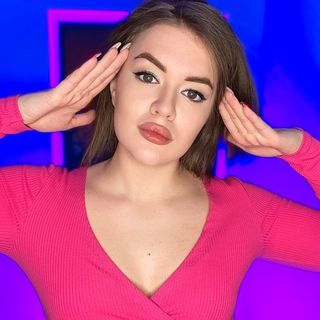
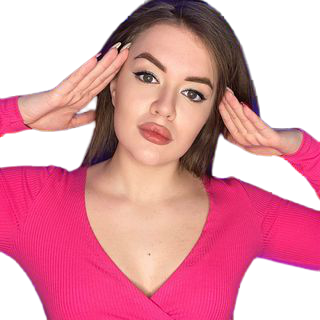
23.02

diff --git a/css/style.css b/css/style.css
@@ -1,1 +1,1 @@
-html{font-size:15px}body{margin:0;font-family:'Montserrat',sans-serif;font-size:1rem;color:#2B2A2C}*,*:before,*:after{box-sizing:border-box}h1,h2,h3,h4,h5,h6{margin:0}.container{width:100%;max-width:1200px;margin:0 auto;padding-left:1rem;padding-right:1rem}.header{padding:1.2rem 0}.header_inner{display:flex;justify-content:space-between;align-items:center}.user{display:flex}.user__avatar img{border-radius:50%;width:57px;height:57px}.user__content{padding-left:9px}.user__name{font-size:1.07rem;color:#2B2A2C;font-weight:700;line-height:1.2rem;margin-bottom:3px}.user__prof{font-size:.8rem;color:rgba(43,42,44,0.7)}.nav{display:flex;align-items:center;height:100%}.nav__link{margin-left:2rem;font-size:.93rem;color:#2B2A2C;text-decoration:none;font-weight:700;text-transform:uppercase;position:relative}.nav__link:after{content:"";width:0;height:2px;background-color:#2B2A2C;position:absolute;bottom:-5px;left:0;transition:width .2s linear}.nav__link:hover:not(.nav__link--btn):after{width:100%}.nav__link--btn{padding:.66rem 2rem;border:2px solid #2B2A2C;border-radius:20px;transition:background-color .2s linear,color .2s linear}.nav__link--btn:hover{background-color:#2B2A2C;color:#fff}.intro__inner{display:flex;border-bottom:1px solid rgba(106,105,107,0.3);padding-bottom:120px;padding-top:100px;position:relative}.intro__content{width:50%}.intro__subtitle{font-size:2.13rem;color:#2B2A2C;font-weight:200}.intro__title{font-size:3rem;color:#2B2A2C;font-weight:700;margin-bottom:5px}.intro__text{font-size:1.2rem;color:rgba(43,42,44,0.7);margin-bottom:35px}.intro__photo{height:100%;position:absolute;bottom:0;right:0}.social{margin-bottom:42px;display:flex}.social__link{margin-right:15px;text-decoration:none;transition:transform .2s linear}.social__link img{height:50px;width:50px}.social__link:hover{transform:translateY(-10px)}.btn{display:inline-block;vertical-align:top;font-size:1.06rem;color:#2B2A2C;text-transform:uppercase;text-decoration:none;border:solid #6A696B 1px;border-radius:30px;padding:1.1rem 1.8rem;min-width:170px;text-align:center;transition:background-color .2s linear,color .2s linear,box-shadow .2s linear}.btn:hover{background-color:#2B2A2C;color:#fff;box-shadow:2px 2px 10px rgba(0,0,0,0.24)}.btn+.btn{margin-left:1rem}.works{padding:2.8rem 0}.works__nav{display:flex;justify-content:center;margin-bottom:1.4rem}.works__nav-link{margin:0 1.2rem;font-size:.8rem;color:rgba(43,42,44,0.7);text-decoration:none}.works__nav-link:hover{text-decoration:underline}.portfolio{display:flex;flex-wrap:wrap;margin:0 -1rem}.portfolio__col{width:33.33%;padding:1rem}.work{box-shadow:0 0 4px rgba(0,0,0,0.25);border-radius:10px;overflow:hidden}.work__img{display:block;width:100%}.work__content{padding:1rem .8rem}.work__cat{margin-bottom:.5rem;font-size:.8rem;color:#2B2A2C;text-transform:uppercase}.work__title{display:flex;justify-content:space-between;font-size:1.06rem;color:#2B2A2C;font-weight:700;text-transform:uppercase}
+html{font-size:15px}body{margin:0;font-family:'Montserrat',sans-serif;font-size:1rem;color:#2B2A2C}*,*:before,*:after{box-sizing:border-box}h1,h2,h3,h4,h5,h6{margin:0}.container{width:100%;max-width:1200px;margin:0 auto;padding-left:1rem;padding-right:1rem}.header{padding:1.2rem 0}.header_inner{display:flex;justify-content:space-between;align-items:center}.user{display:flex}.user__avatar img{border-radius:50%;width:57px;height:57px}.user__content{padding-left:9px}.user__name{font-size:1.07rem;color:#2B2A2C;font-weight:700;line-height:1.2rem;margin-bottom:3px}.user__prof{font-size:.8rem;color:rgba(43,42,44,0.7)}.nav{display:flex;align-items:center;height:100%}.nav__link{margin-left:2rem;font-size:.93rem;color:#2B2A2C;text-decoration:none;font-weight:700;text-transform:uppercase;position:relative;z-index:1}.nav__link:after{content:"";width:0;height:2px;background-color:#2B2A2C;position:absolute;bottom:-5px;left:0;transition:width .2s linear}.nav__link:hover:not(.nav__link--btn):after{width:100%}.nav__link--btn{padding:.66rem 2rem;border:2px solid #2B2A2C;border-radius:20px;transition:background-color .2s linear,color .2s linear}.nav__link--btn:hover{background-color:#2B2A2C;color:#fff}.intro__inner{display:flex;border-bottom:1px solid rgba(106,105,107,0.3);padding-bottom:120px;padding-top:100px;position:relative}.intro__content{width:50%}.intro__subtitle{font-size:2.13rem;color:#2B2A2C;font-weight:200}.intro__title{font-size:3rem;color:#2B2A2C;font-weight:700;margin-bottom:5px}.intro__text{font-size:1.2rem;color:rgba(43,42,44,0.7);margin-bottom:35px}.intro__photo{height:110%;position:absolute;bottom:0;right:-80px}.social{margin-bottom:42px;display:flex}.social__link{margin-right:15px;text-decoration:none;transition:transform .2s linear}.social__link img{height:50px;width:50px}.social__link:hover{transform:translateY(-10px)}.btn{display:inline-block;vertical-align:top;font-size:1.06rem;color:#2B2A2C;text-transform:uppercase;text-decoration:none;border:solid #6A696B 1px;border-radius:30px;padding:1.1rem 1.8rem;min-width:170px;text-align:center;transition:background-color .2s linear,color .2s linear,box-shadow .2s linear}.btn:hover{background-color:#2B2A2C;color:#fff;box-shadow:2px 2px 10px rgba(0,0,0,0.24)}.btn+.btn{margin-left:1rem}.works{padding:2.8rem 0}.works__nav{display:flex;justify-content:center;margin-bottom:1.4rem}.works__nav-link{margin:0 1.2rem;font-size:.8rem;color:rgba(43,42,44,0.7);text-decoration:none}.works__nav-link:hover{text-decoration:underline}.portfolio{display:flex;flex-wrap:wrap;margin:0 -1rem}.portfolio__col{width:33.33%;padding:1rem}.work{box-shadow:0 0 4px rgba(0,0,0,0.25);border-radius:10px;overflow:hidden;position:relative}.work__img{display:block;width:100%}.work__content{padding:1rem .8rem}.work__cat{margin-bottom:.5rem;font-size:.8rem;color:#2B2A2C;text-transform:uppercase}.work__title{display:flex;justify-content:space-between;font-size:1.06rem;color:#2B2A2C;font-weight:700;text-transform:uppercase}

diff --git a/index.html b/index.html
@@ -105,42 +105,7 @@
 							</div>
 						</div>
 					</div>
-					<div class="portfolio__col">
-						<div class="work">
-							<img class="work__img" src="psots/1.jpg" alt="">
-							<div class="work__content">
-								<div class="work__cat">category</div>
-								<div class="work__title">
-									Project title
-									<time class="work__date" datetime="2022-02-01 10:00">2022</time>
-								</div>
-							</div>
-						</div>
-					</div>
-					<div class="portfolio__col">
-						<div class="work">
-							<img class="work__img" src="psots/1.jpg" alt="">
-							<div class="work__content">
-								<div class="work__cat">category</div>
-								<div class="work__title">
-									Project title
-									<time class="work__date" datetime="2022-02-01 10:00">2022</time>
-								</div>
-							</div>
-						</div>
-					</div>
-					<div class="portfolio__col">
-						<div class="work">
-							<img class="work__img" src="psots/1.jpg" alt="">
-							<div class="work__content">
-								<div class="work__cat">category</div>
-								<div class="work__title">
-									Project title
-									<time class="work__date" datetime="2022-02-01 10:00">2022</time>
-								</div>
-							</div>
-						</div>
-					</div>
+					
 				</div> <!-- /.portfolio -->
 
 			</div> <!-- /.container -->

diff --git a/css/blocks/work.less b/css/blocks/work.less
@@ -4,6 +4,7 @@
 	box-shadow: 0 0 4px fade(#000, 25%);
 	border-radius: 10px;
 	overflow: hidden;
+	position: relative;
 }
 
 .work__img {

diff --git a/css/blocks/intro.less b/css/blocks/intro.less
@@ -37,8 +37,8 @@
 }
 
 .intro__photo {
-	height: 100%;
+	height: 110%;
 	position: absolute;
 	bottom: 0;
-	right: 0;
+	right: -80px;
 }

diff --git a/css/blocks/nav.less b/css/blocks/nav.less
@@ -14,6 +14,7 @@
 	font-weight: 700;
 	text-transform: uppercase;
 	position: relative;
+	z-index: 1;
 
 	&:after {
 		content: "";
